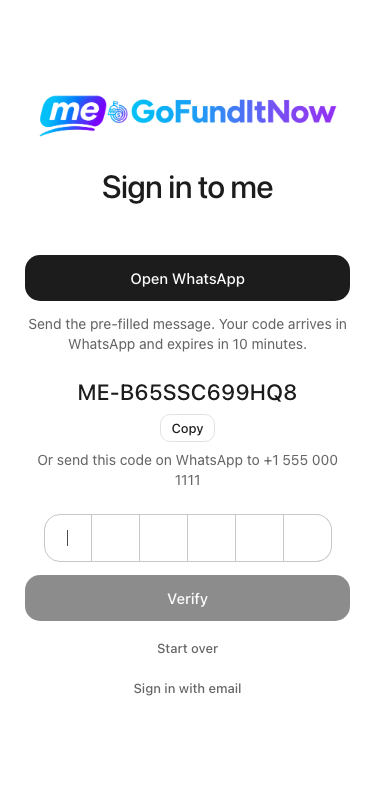
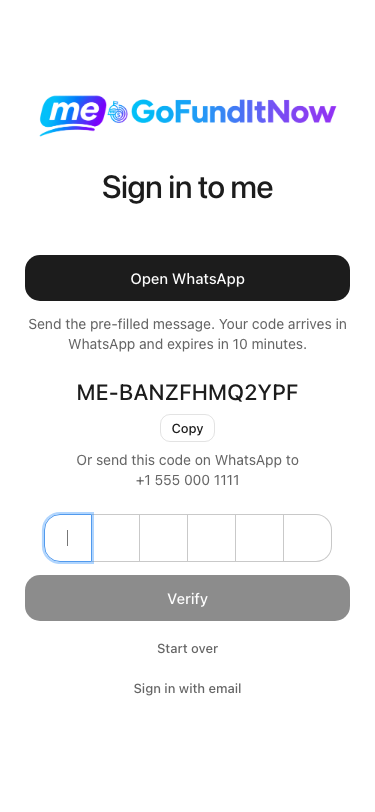
Review fix 4: the business number cannot break mid-number at 375
The number rides in a whitespace-nowrap span, so the fallback line
wraps around it instead of through it; the component test asserts the
markup contract (jsdom lays out nothing) and the fresh 375 and 1280
captures under FORK.d/shots/P11 prove the render, taken against a real
local door with the capture asserting one client rect for the span.

diff --git a/apps/web/src/me/onboarding/phone-signin.test.tsx b/apps/web/src/me/onboarding/phone-signin.test.tsx
@@ -144,6 +144,11 @@ it("shows the code to send by hand, with a labelled copy button, and the busines
   await render();
   await click("Continue");
   expect(host.textContent).toContain(DOOR.nonce);
+  // The number cannot break mid-number at a narrow width (jsdom lays out
+  // nothing; the markup contract is the nowrap span, the screenshot proves it).
+  const numberSpan = host.querySelector("span.whitespace-nowrap")!;
+  expect(numberSpan).not.toBeNull();
+  expect(numberSpan.textContent).toBe(DOOR.businessNumber);
   expect(host.textContent).toContain("Or send this code on WhatsApp to +1 555 000 1111");
 
   const copy = host.querySelector<HTMLButtonElement>('button[aria-label="Copy sign-in code"]')!;

diff --git a/apps/web/src/me/onboarding/phone-signin.tsx b/apps/web/src/me/onboarding/phone-signin.tsx
@@ -176,7 +176,10 @@ export function PhoneDoorPanel({ onSignedIn }: { onSignedIn: () => void }) {
             {copied ? <Trans>Copied</Trans> : <Trans>Copy</Trans>}
           </Button>
           <p className="mt-2 w-full text-center text-body text-muted-foreground">
-            <Trans>Or send this code on WhatsApp to {door.businessNumber}</Trans>
+            <Trans>
+              Or send this code on WhatsApp to{" "}
+              <span className="whitespace-nowrap">{door.businessNumber}</span>
+            </Trans>
           </p>
           <div className="mt-6 flex w-full justify-center">
             <InputOTP
